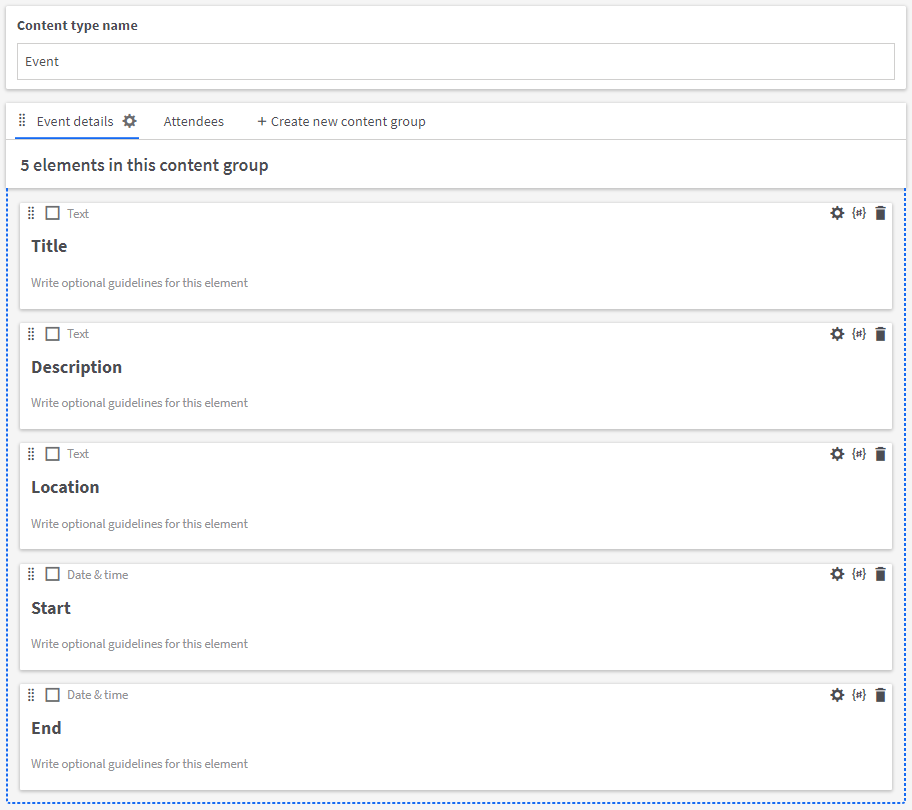
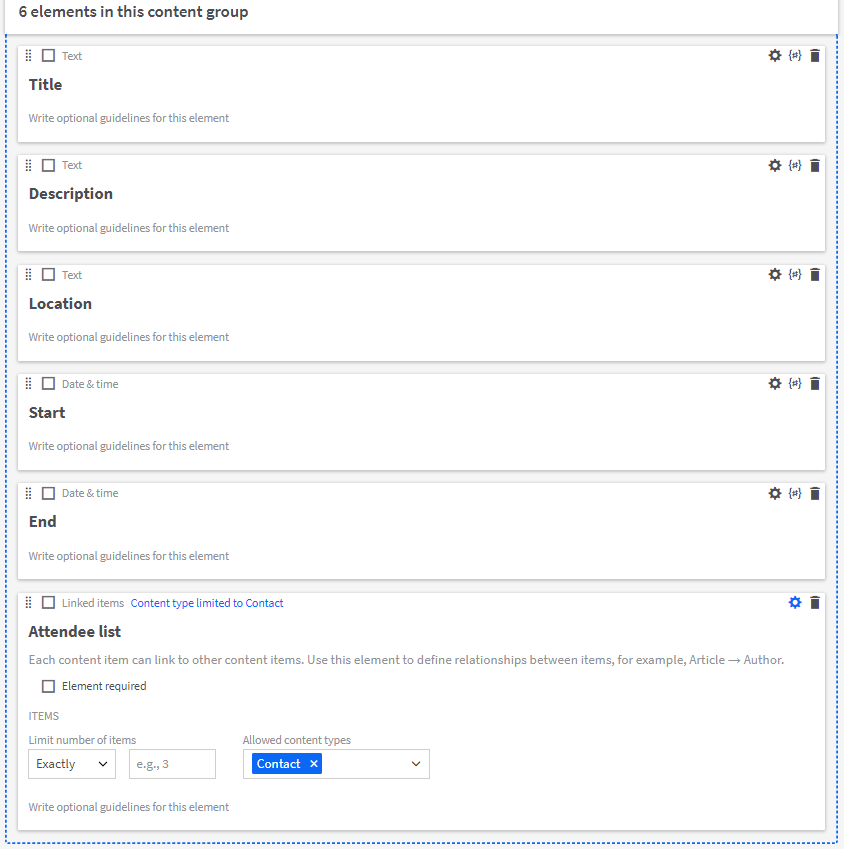
Update README

Changed region(s): [[0.0, 0.0, 1.0, 1.0], [0.2773, 0.8642, 0.4313, 0.9259]]

diff --git a/README.md b/README.md
@@ -47,15 +47,11 @@ Let's say your company manages events for a client. At this point, you've been u
 
 ### Content types in Kontent
 
-To start, we should have an __Event__ content type with 2 content groups- one for the event details:
+To start, we should have an __Event__ content type with fields for basic event information, and a __Linked items__ element which can only contain items from your __Contact__ content type:
 
 ![event details](./images/eventdetails.png)
 
-and one for the attendees, a notification option, and a note:
-
-![event attendees](./images/eventattendees.png)
-
-The event's `attendee_list` is a linked item element which can only contain items from your __Contact__ content type:
+The __Contact__ content type can contain whatever information you'd like, but should at least have an `email` element:
 
 ![contact type](./images/contact.png)
 
@@ -113,11 +109,40 @@ To get information about the event, we need to add a __Find Content Item__ actio
 
 #### Step 4
 
-Our next step is to create the Google Calendar event. In __Choose App & Event__ select _Google Calendar_ and _Create Detailed Event_. On the next screen, you'll need to authorize a Google Account which has access to the calendar you wish to modify.
+To send emails to the event attendees, we will need to get the contacts stored in the `attendees_list` element. The value of this element will be an array of content item IDs which correspond with the items in step 3's `modular_content` output. So, we can use a __Code by Zapier__ step to get the email addresses of the attendees and some other values needed later.
+
+If you're not familiar with the basics of code steps, please read [Zapier's documentation](https://zapier.com/apps/code/help). In the __Input data__ field we can load some values from the trigger to use in javascript:
+
+- __json__: The raw JSON of the modular content from step 3.
+- __attendees__: The value of the `attendee_list` element, which contains the IDs of the linked items.
+
+![input data](./images/inputdata.png)
+
+In the code of the step, use JSON to parse the `json` variable, then use `Object.values()` to create an array. Filter the array so that only contacts from the `attendees` variable remain, then `map` the email addresses to a new array. Then, output the emails:
+
+```js
+let modular = JSON.parse(inputData.json);
+modular = Object.values(modular);
+modular = modular.filter(m => inputData.attendees.includes(m.system.id));
+
+const emails = modular.map(m => m.elements.email);
+
+output = [{emails: emails}];
+```
+
+#### Step 5
+
+Now we can create the Google Calendar event. In __Choose App & Event__ select _Google Calendar_ and _Create Detailed Event_. On the next screen, you'll need to authorize a Google Account which has access to the calendar you wish to modify.
 
 On the __Customize Detailed Event__ screen, select your calendar then use data from step 3 to populate these fields:
 
 ![calendar details](./images/calendardetails.png)
+
+In the event's __Attendees__ field you can load the list of emails from step 4. Google will automatically email the attendees when the event is created.
+
+![attendees](./images/attendees.png)
+
+#### Testing
 
 We're pretty much done- turn on the Zap to create the webhook in Kontent. If the On/Off switch is greyed-out in Zapier, you most likely need to test one of the steps (or, choose __Skip test__). All steps should have a green check mark in the top-left corner.
 
